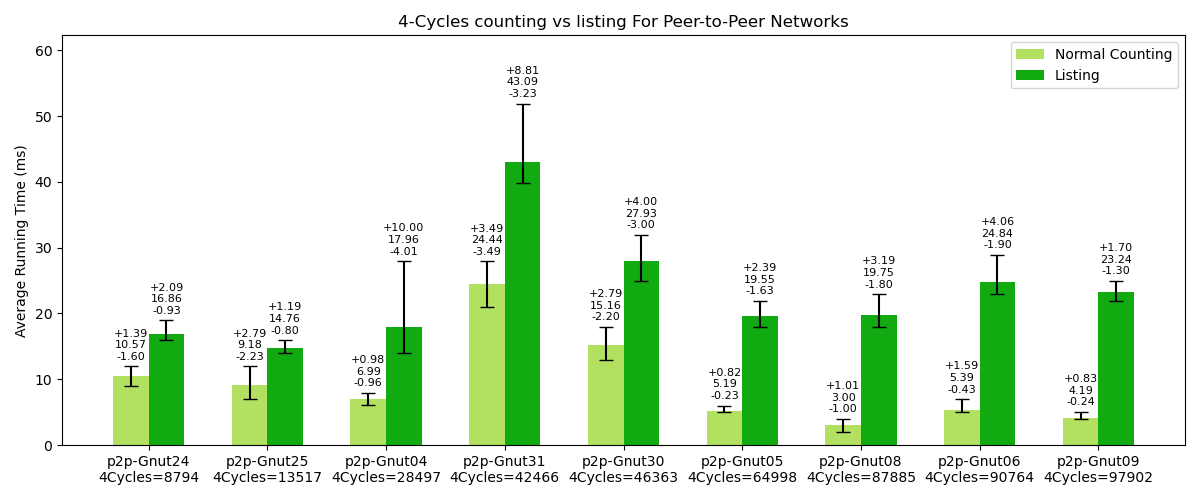
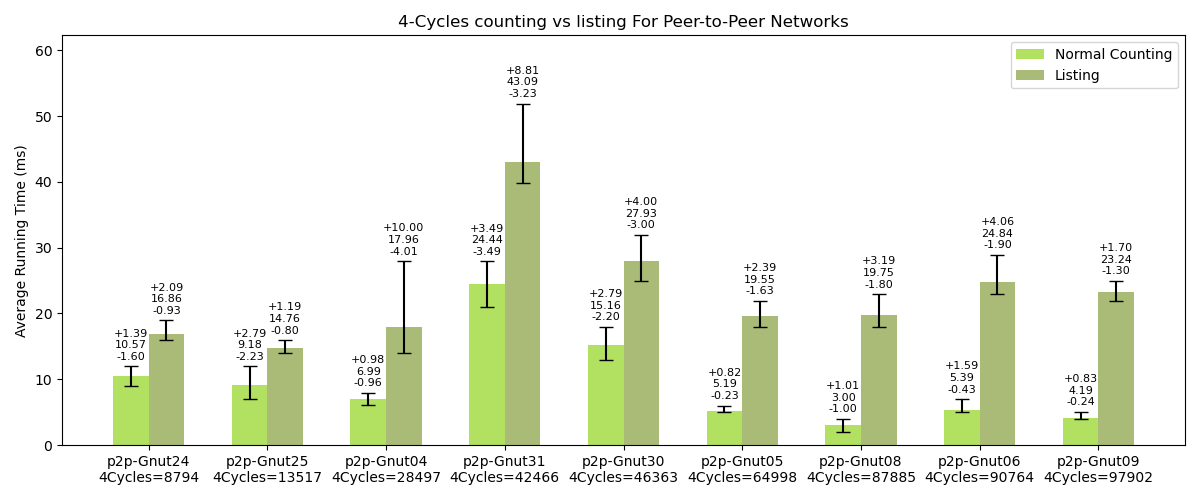
small edit on the plots

diff --git a/experimentations/plots/4CycleCounting/countingvslisting4cycles_p2p-Gnutella.py b/experimentations/plots/4CycleCounting/countingvslisting4cycles_p2p-Gnutella.py
@@ -28,7 +28,7 @@ alg1_bars = ax.bar(index, counting_times, bar_width, color="#b2e061", label='Nor
 for i, (v, vmin, vmax) in enumerate(zip(counting_times, counting_min, counting_max)):
     ax.errorbar(i, v, yerr=[[v - vmin], [vmax - v]], fmt='', color='black', markersize=5, capsize=5)
 
-alg2_bars = ax.bar([i + bar_width for i in index], listing_times, bar_width, color="#11aa11", label='Listing')
+alg2_bars = ax.bar([i + bar_width for i in index], listing_times, bar_width, color="#AABB77", label='Listing')
 
 for i, (v, vmin, vmax) in enumerate(zip(listing_times, listing_min, listing_max)):
     ax.errorbar(i + bar_width, v, yerr=[[v - vmin], [vmax - v]], fmt='', color='black', markersize=5, capsize=5)
